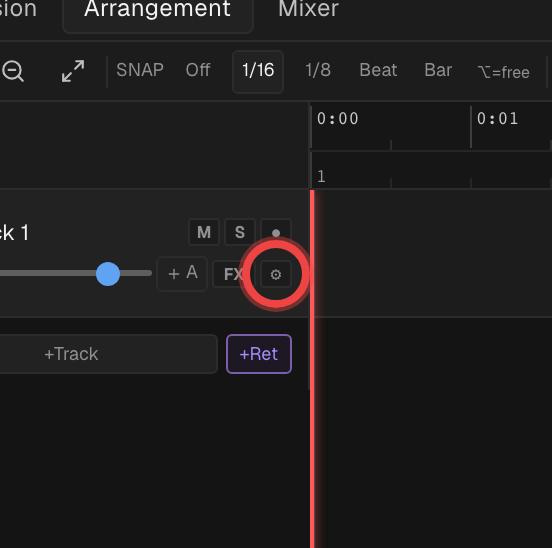
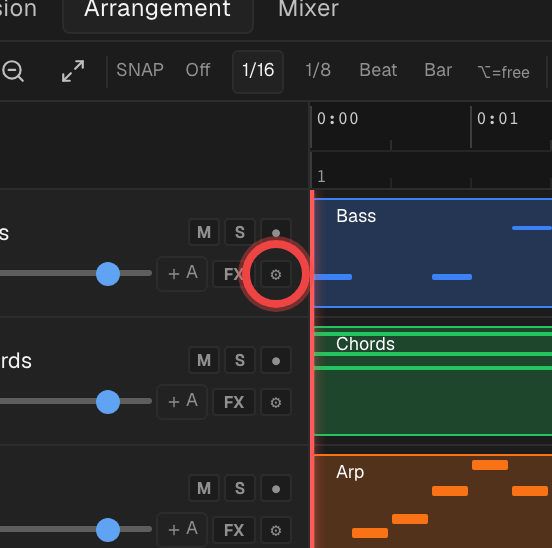
Tutorials: capture against a real WIP song, not a blank project
Feature-tutorial screenshots now show each control inside a populated project
(named/colored tracks + MIDI clips) instead of an empty canvas, so people see
what it actually looks like mid-project.

- scripts/build-tutorial-song.mjs (npm run build-tutorial-song) — builds a demo
  A-minor WIP (bass, chords, arp, lead) from the app's own defaultProject() +
  poly instruments, as MIDI clips. Deterministic, pure Node. Output:
  public/tutorial-fixtures/demo-song.json.
- ProjectEditor gains a guarded ?fixture=<id> hook that loads a committed demo
  project from /tutorial-fixtures/<id>.json as the starting state (same-origin,
  id-restricted). NewProjectClient passes the param through.
- capture-tutorials.mjs loads /new?...&fixture=demo-song so every shot has the
  song behind the red-circled button. FX images regenerated against it.

(Fixtures live at /tutorial-fixtures/, not /tutorial/, because the app's
/tutorial route otherwise shadows the static file.)

diff --git a/components/editor/ProjectEditor.tsx b/components/editor/ProjectEditor.tsx
@@ -72,6 +72,10 @@ export interface ProjectEditorProps {
   allowImport?: boolean
   /** Community starter item id — its shared dawProject seeds this new project. */
   starterId?: string
+  /** Load a committed demo project from /tutorial/_fixtures/<id>.json as the
+   *  starting state (used by the tutorial capture pipeline for a realistic
+   *  WIP backdrop). Static, same-origin, id-restricted — safe. */
+  fixtureId?: string
   audioMode?: 'music' | 'podcast'
 }
 
@@ -280,7 +284,7 @@ style={{
 
 // ── Main component ────────────────────────────────────────────
 
-export default function ProjectEditor({ projectId, projectName, modules: moduleProp, allowImport, audioMode: audioModeProp, starterId }: ProjectEditorProps) {
+export default function ProjectEditor({ projectId, projectName, modules: moduleProp, allowImport, audioMode: audioModeProp, starterId, fixtureId }: ProjectEditorProps) {
   const isNewProject = !projectId
   const [activeModules, setActiveModules] = useState<ModuleKey[] | null>(
     isNewProject ? (moduleProp ?? ['video']) : null
@@ -289,7 +293,7 @@ export default function ProjectEditor({ projectId, projectName, modules: moduleP
   const [outputs, setOutputs]           = useState<Output[]>([])
   const [savedData, setSavedData]       = useState<CfProjFile | null>(null)
   const [starterProject, setStarterProject] = useState<DawProject | null>(null)
-  const [starterLoading, setStarterLoading] = useState(!!starterId)
+  const [starterLoading, setStarterLoading] = useState(!!starterId || !!fixtureId)
   useEffect(() => {
     if (!starterId) return
     let alive = true
@@ -303,6 +307,15 @@ export default function ProjectEditor({ projectId, projectName, modules: moduleP
       .catch(() => { if (alive) setStarterLoading(false) })
     return () => { alive = false }
   }, [starterId])
+  useEffect(() => {
+    if (!fixtureId || !/^[a-z0-9-]+$/.test(fixtureId)) return
+    let alive = true
+    fetch(`/tutorial-fixtures/${fixtureId}.json`)
+      .then(r => r.ok ? r.json() : null)
+      .then((p: DawProject | null) => { if (alive && p) setStarterProject(p); if (alive) setStarterLoading(false) })
+      .catch(() => { if (alive) setStarterLoading(false) })
+    return () => { alive = false }
+  }, [fixtureId])
   const [localName, setLocalName]       = useState(projectName)
   const [currentTime, setCurrentTime]   = useState(0)
   const [audioMedia, setAudioMedia]     = useState<SerializedAudioMedia[]>([])

diff --git a/app/(app)/new/NewProjectClient.tsx b/app/(app)/new/NewProjectClient.tsx
@@ -24,9 +24,10 @@ export default function NewProjectClient({ flags }: Props) {
   const searchParams = useSearchParams()
   const starterParam = searchParams.get('starter')
   const communityItemParam = searchParams.get('communityItem')
-  // Community deep-links always target the DAW
-  const moduleParam   = searchParams.get('modules') ?? (starterParam || communityItemParam ? 'audio' : null)
-  const audioModeParam = searchParams.get('audioMode') ?? (starterParam || communityItemParam ? 'music' : null)
+  const fixtureParam = searchParams.get('fixture')
+  // Community deep-links and demo fixtures always target the DAW
+  const moduleParam   = searchParams.get('modules') ?? (starterParam || communityItemParam || fixtureParam ? 'audio' : null)
+  const audioModeParam = searchParams.get('audioMode') ?? (starterParam || communityItemParam || fixtureParam ? 'music' : null)
 
   const visibleMods = MODULE_DEFS.filter(m => flags.enabledModules.includes(m.key))
 
@@ -56,6 +57,7 @@ export default function NewProjectClient({ flags }: Props) {
           audioMode={initAudioMode}
           allowImport
           starterId={starterParam ?? undefined}
+          fixtureId={fixtureParam ?? undefined}
         />
       </div>
     )